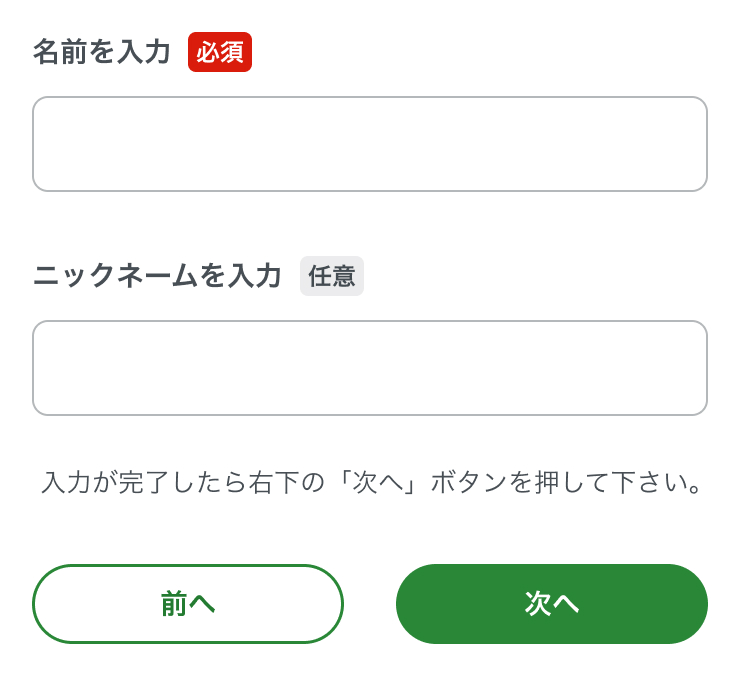
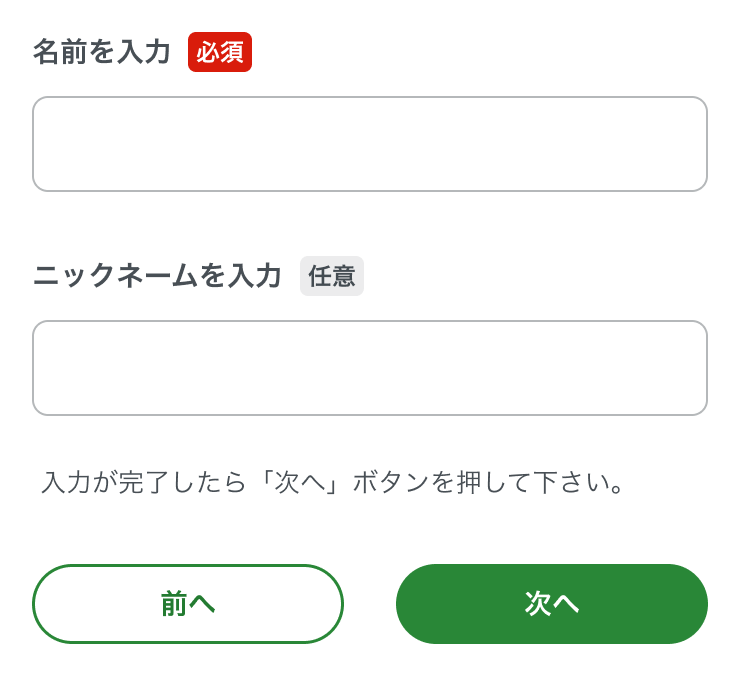
fix: 1.3.3

Changed region(s): [[0.4662, 0.6834, 0.9324, 0.7456], [0.3419, 0.6834, 0.4351, 0.7456]]

diff --git a/src/1/3/3.md b/src/1/3/3.md
@@ -36,7 +36,7 @@ permalink: "{{ number | scNumberToPath }}/"
 <li>
 
 <figure>
-<img src="/img/1/3/3/1.3.3_ng.png" alt="お名前とニックネームを入力するフォーム。入力が完了したら右下のボタンを押して下さい。というテキストの下に「前へ」「次へ」ボタンが表示されている。" />
+<img src="/img/1/3/3/1.3.3_ng.png" alt="名前とニックネームを入力するフォーム。入力が完了したら右下のボタンを押して下さい。というテキストの下に「前へ」「次へ」ボタンが表示されている。" />
 <figcaption>
 {% label "bad" %}
 フォームの「次へ」ボタンを位置のみで説明している。
@@ -52,17 +52,17 @@ permalink: "{{ number | scNumberToPath }}/"
 位置だけでなく、特定するための追加情報（この例だとボタンのラベル）が含まれている。
 
 ```html
-<p>入力が完了したら右下の「次へ」ボタンを押して下さい。</p>
+<p>入力が完了したら「次へ」ボタンを押して下さい。</p>
 ```
 
 <ul class="Figurelist">
 <li>
 
 <figure>
-<img src="/img/1/3/3/1.3.3_ok.png" alt="お名前とニックネームを入力するフォーム。入力が完了したら右下の「次へ」ボタンを押して下さい。というテキストの下に「前へ」「次へ」ボタンが表示されている。" />
+<img src="/img/1/3/3/1.3.3_ok.png" alt="名前とニックネームを入力するフォーム。入力が完了したら「次へ」ボタンを押して下さい。というテキストの下に「前へ」「次へ」ボタンが表示されている。" />
 <figcaption>
 {% label "good" %}
-フォームの「次へ」ボタンを位置が判断できるラベル付きで説明している。
+フォームの「次へ」ボタンが判断できるラベル付きで説明している。
 {% endlabel %}
 </figcaption>
 </figure>
